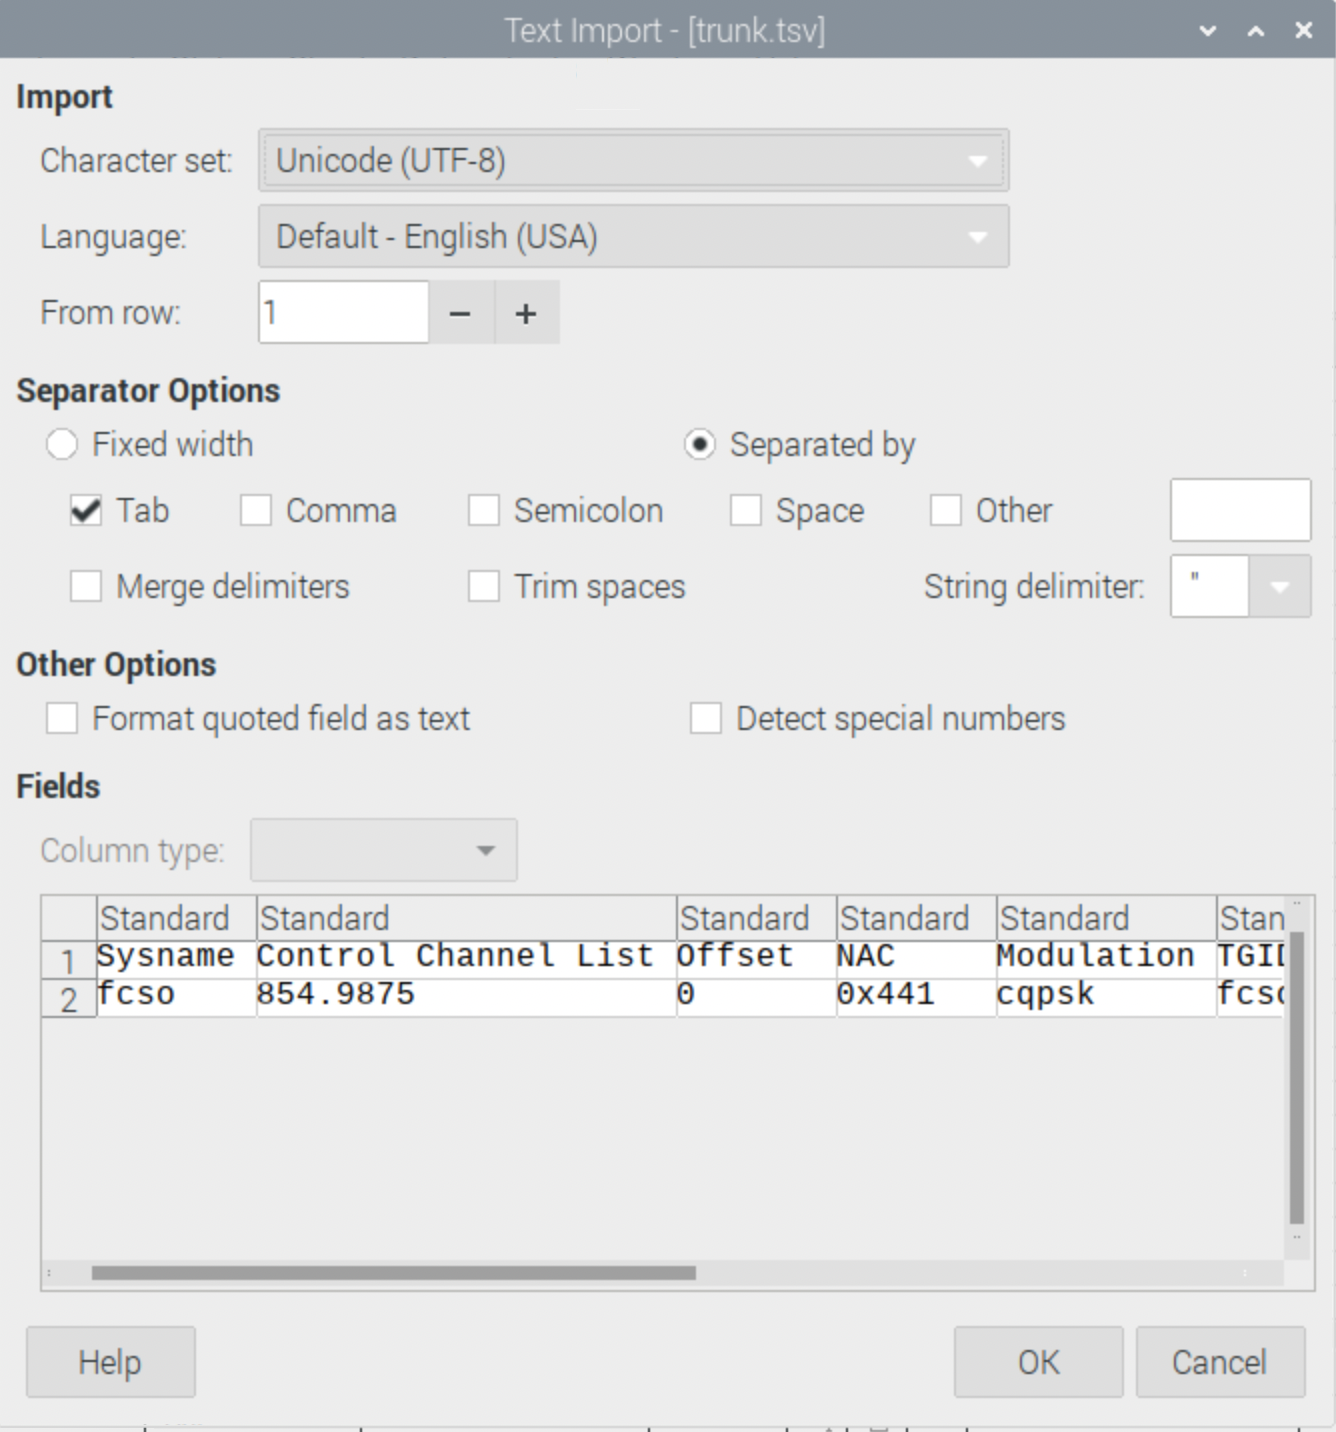
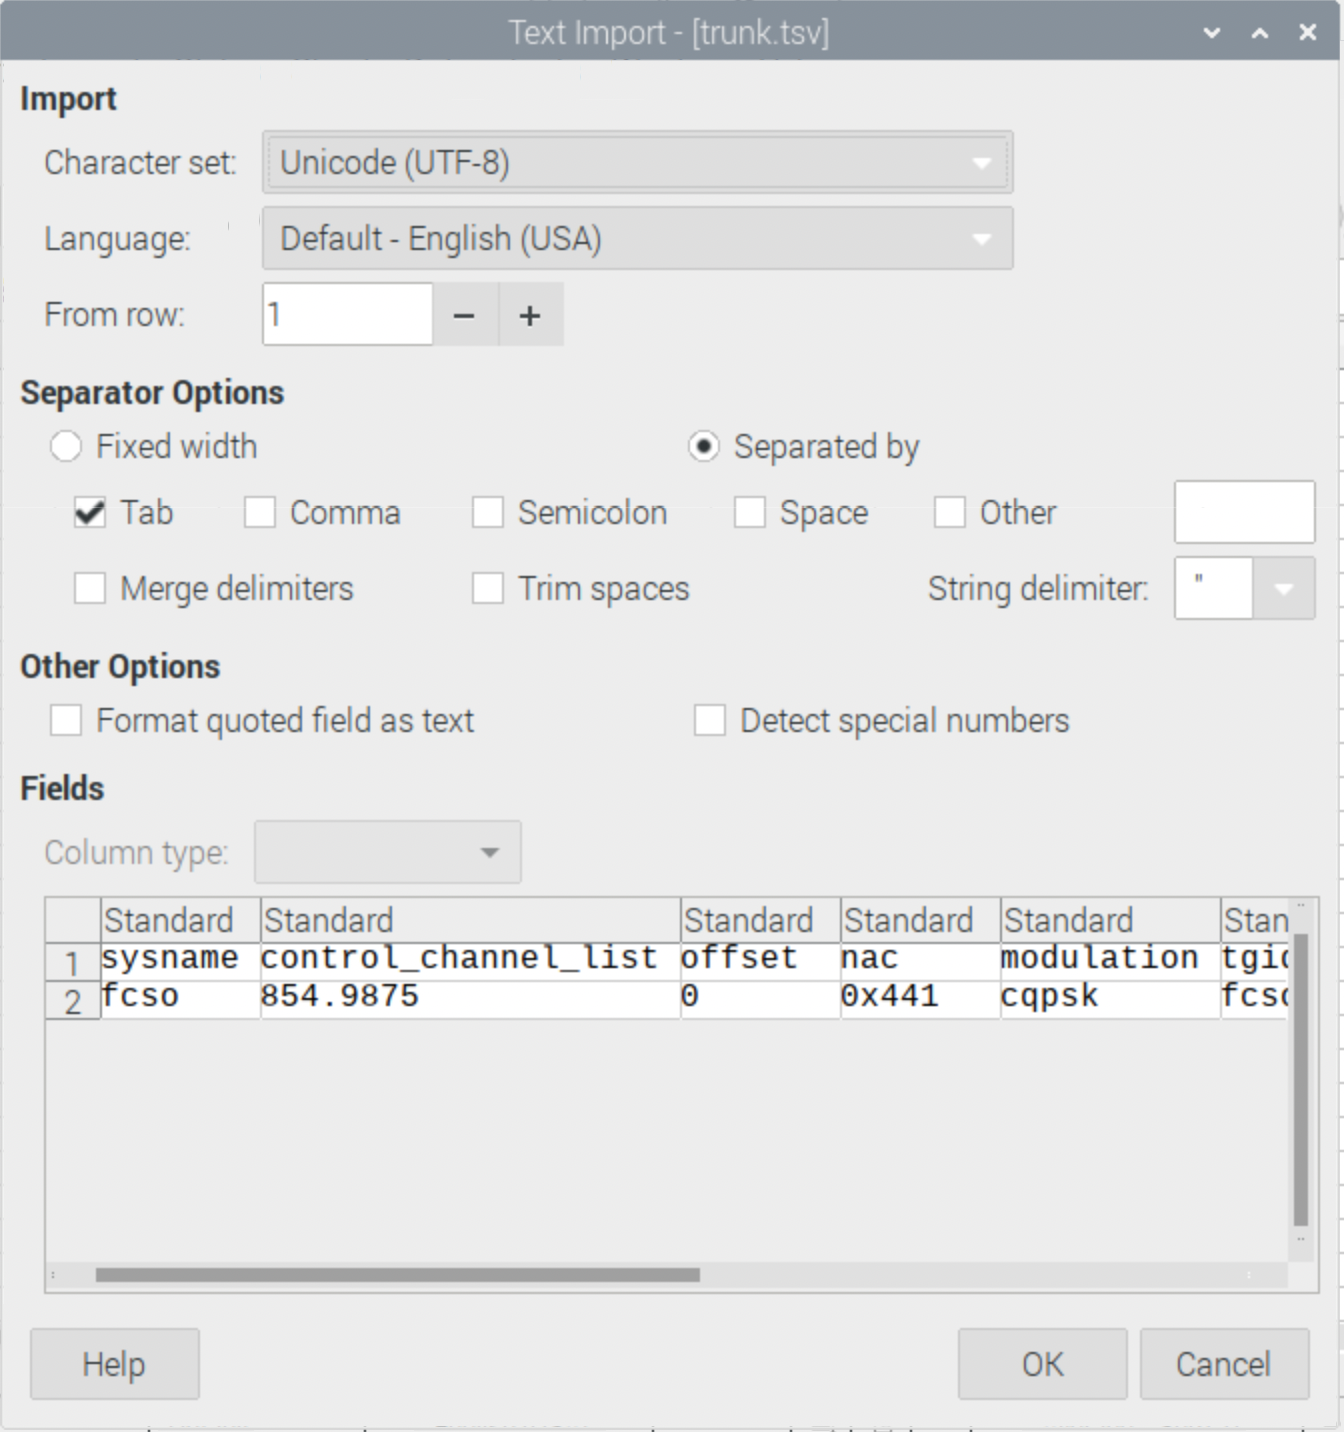
cleanup trunk.tsv description

diff --git a/README.md b/README.md
@@ -280,14 +280,15 @@ Enter data in row 2 according to the table below.
 
 | Column | Description |
 | --- | --- |
-| Sysname | Assign a name to the system. The default name, `fcso`, is arbitrary and it corresponds to the Frederick, MD Sheriff's office |
-| Control Channel List | The primary control channel frequency in MHz |
-| Offset | Some sort of frequency offset, but leave this at zero |
-| NAC | The three digit hexadecimal network access code preceded by `0x` |
-| Modulation | Set to `cqpsk` for Compatible Differential Offset Quadrature Phase Shift Keying (CQPSK) is another name for Differential Phase Shift Keying (DQPSK) with 4 bit styles: 00, 01, 10, and 11. This [article](https://en.wikipedia.org/wiki/Phase-shift_keying) dives deeper into this encoding. An alternative is `c4fm` for Continuous 4 level FM. |
-| TGID Tags File | File name containing talkgroup identifiers. This is where the desired talkgroups are listed. |
-| Whitelist | The only talkgroup identifiers you want to decode, e.g. 5402 |
-| BLacklist/Center Frequency | Leave blank for now. |
+| sysname | Assign a name to the system. The default name, `fcso`, is arbitrary and it corresponds to the Frederick, MD Sheriff's office |
+| control_channel_list | The primary control channel frequency in MHz |
+| offset | Some sort of frequency offset, but leave this at zero |
+| nac | The three digit hexadecimal network access code preceded by `0x` |
+| modulation | Set to `cqpsk` for Compatible Differential Offset Quadrature Phase Shift Keying (CQPSK) is another name for Differential Phase Shift Keying (DQPSK) with 4 bit styles: 00, 01, 10, and 11. This [article](https://en.wikipedia.org/wiki/Phase-shift_keying) dives deeper into this encoding. An alternative is `c4fm` for Continuous 4 level FM. |
+| tgid_tags_file | File name containing tags associated with talkgroup identifiers. |
+| whitelist | The only talkgroup identifiers you want to include in the stream, e.g. 5402 |
+| blacklist | Talkgroup identifiers to exclude from the stream, e.g. 5442 |
+| center_frequency | Leave blank for now. |
 
 Make the appropriate modifications for the desired Project25 system
 you'd like to listen to. Save the file using `File -> Save` and
